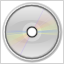
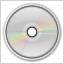
New iconds
git-svn-id: https://svn.musicpd.org/gmpc/trunk@4005 09075e82-0dd4-0310-85a5-a0d7c8717e4f

diff --git a/src/tray-icon.c b/src/tray-icon.c
@@ -25,7 +25,6 @@ void tray_init();
 
 GladeXML *tray_pref_xml = NULL;
 
-//int pl3_hidden = FALSE;
 
 extern GladeXML *pl3_xml;
 
@@ -489,7 +488,7 @@ void tray_icon_song_change()
 		ret = cover_art_fetch_image_path(mpd_playlist_get_current_song(connection), &path);
 		if(ret == COVER_ART_OK_LOCAL)
 		{
-			cover_pb = gdk_pixbuf_new_from_file_at_size(path, 80,80, NULL);
+			cover_pb = gdk_pixbuf_new_from_file_at_size(path, 64,64, NULL);
 		}
 		else if (ret == COVER_ART_NOT_FETCHED)
 		{
@@ -498,6 +497,17 @@ void tray_icon_song_change()
 					(CoverArtCallback)tray_cover_art_fetched,NULL);
 		}
 		if(path)g_free(path);
+	}
+}
+
+void tray_icon_connection_changed(MpdObj *mi, int connect)
+{
+	if(connect){
+		if(tray_icon)gtk_image_set_from_stock(GTK_IMAGE(logo), "gmpc-tray", -1);
+		tray_icon_state_change();
+	}
+	else{
+		if(tray_icon)gtk_image_set_from_stock(GTK_IMAGE(logo), "gmpc-tray-disconnected", -1);
 	}
 }
 
@@ -714,7 +724,7 @@ int create_tray_icon()
 	/* set up tray icon */
 	tray_icon = egg_tray_icon_new(_("Gnome Music Player Client"));
 	event = gtk_event_box_new();
-	logo = 	gtk_image_new_from_stock("gmpc-tray",-1);//gtk_event_box_new();
+	logo = 	gtk_image_new_from_stock("gmpc-tray-disconnected",-1);//gtk_event_box_new();
 	gtk_container_add(GTK_CONTAINER(tray_icon), event);
 	gtk_container_add(GTK_CONTAINER(event), logo);
 	gtk_widget_show_all(GTK_WIDGET(tray_icon));
@@ -747,7 +757,7 @@ void tray_cover_art_fetched(mpd_Song *song)
 				ret = cover_art_fetch_image_path(mpd_playlist_get_current_song(connection), &path);
 				if(ret == COVER_ART_OK_LOCAL)
 				{
-					cover_pb = gdk_pixbuf_new_from_file_at_size(path, 80,80, NULL);
+					cover_pb = gdk_pixbuf_new_from_file_at_size(path, 64,64, NULL);
 				}
 				if(path)g_free(path);
 

diff --git a/src/main.c b/src/main.c
@@ -478,6 +478,17 @@ void init_stock_icons ()
 	set = gtk_icon_set_new_from_pixbuf (pb);
 	gtk_icon_factory_add (factory, "gmpc-tray-pause", set);
 	g_object_unref (G_OBJECT (pb));
+
+
+	path = gmpc_get_full_image_path("gmpc-tray-disconnected.png");
+	pb = gdk_pixbuf_new_from_file (path, NULL);
+	g_free(path);
+	set = gtk_icon_set_new_from_pixbuf (pb);
+	gtk_icon_factory_add (factory, "gmpc-tray-disconnected", set);
+	g_object_unref (G_OBJECT (pb));
+
+
+	
 	
 
 
@@ -689,6 +700,7 @@ void connection_changed(MpdObj *mi, int connect, gpointer data)
 	}                                                                              	
 	debug_printf(DEBUG_INFO, "Connection changed\n");
 	playlist_connection_changed(mi, connect);
+	tray_icon_connection_changed(mi, connect);
 	for(i=0; i< num_plugins; i++)
 	{
 		debug_printf(DEBUG_INFO, "Connection changed plugin: %s\n", plugins[i]->name);
@@ -697,7 +709,7 @@ void connection_changed(MpdObj *mi, int connect, gpointer data)
 			plugins[i]->mpd_connection_changed(mi,connect,NULL);
 		}
 	}
-
+	mpd_status_update(mi);
 }
 
 void show_error_message(gchar *string)

diff --git a/src/playlist3-artist-browser.c b/src/playlist3-artist-browser.c
@@ -222,7 +222,7 @@ void pl3_artist_browser_cover_art_fetched(mpd_Song *song, GtkTreeRowReference *r
 				ret = cover_art_fetch_image_path(song, &coverpath); 
 				if(ret == COVER_ART_OK_LOCAL)
 				{
-					int size = cfg_get_single_value_as_int_with_default(config, "cover-art", "browser-size",80);
+					int size = cfg_get_single_value_as_int_with_default(config, "cover-art", "browser-size",64);
 					GdkPixbuf *pb = gdk_pixbuf_new_from_file_at_size(coverpath,size,size,NULL);
 					gtk_list_store_set(pl3_ab_store,&iter, PL3_AB_ICON, pb, -1);
 					g_object_unref(pb);
@@ -303,7 +303,7 @@ long unsigned pl3_artist_browser_view_folder(GtkTreeIter *iter_cat)
 			ret = cover_art_fetch_image_path_aa(artist,data->tag, &coverpath);
 			if(ret == COVER_ART_OK_LOCAL)
 			{
-				int size = cfg_get_single_value_as_int_with_default(config, "cover-art","browser-size", 80);
+				int size = cfg_get_single_value_as_int_with_default(config, "cover-art","browser-size", 64);
 				pb = gdk_pixbuf_new_from_file_at_size(coverpath,size,size,NULL);
 			}	
 			else

diff --git a/src/cover-art-manager.c b/src/cover-art-manager.c
@@ -86,7 +86,7 @@ void cover_art_manager_row_activated(GtkTreeView *tree, GtkTreePath *path)
 					path = cfg_get_single_value_as_string(cover_index, artist, album);
 					if(path){
 						int size = cfg_get_single_value_as_int_with_default(config,
-								"cover-art", "browser-size",80);
+								"cover-art", "browser-size",64);
 						pb =gdk_pixbuf_new_from_file_at_size(path,size,size,NULL);
 					}
 					gtk_tree_store_set(GTK_TREE_STORE(gtk_tree_view_get_model(tree)), &iter, 1, pb,-1);
@@ -191,7 +191,7 @@ void cover_art_manager_load_albums(GtkTreeView *tree, GtkTreeIter *iter)
 			while(mult2 != NULL){
 				gchar *string = g_markup_printf_escaped("<i>%s</i>",mult2->key);
 				int size = cfg_get_single_value_as_int_with_default(config,
-						"cover-art", "browser-size",80);
+						"cover-art", "browser-size",64);
 
 				GdkPixbuf *pb = NULL;
 				if(mult2->value != NULL)

diff --git a/src/playlist3.c b/src/playlist3.c
@@ -1303,8 +1303,7 @@ static void playlist_player_update_image(MpdObj *mi)
 		ret = cover_art_fetch_image_path(song, &path);
 		if(ret == COVER_ART_OK_LOCAL) {
 			GdkPixbuf *pb = NULL;
-			//GtkAllocation alloc = glade_xml_get_widget(pl3_xml, "eventbox2")->allocation;
-			pb = gdk_pixbuf_new_from_file_at_size(path,64,64,NULL);//gdk_pixbuf_new_from_file_at_size(path,-1,(alloc.height > 20)?alloc.height:40,NULL);
+			pb = gdk_pixbuf_new_from_file_at_size(path,64,64,NULL);
 			gtk_image_set_from_pixbuf(GTK_IMAGE(glade_xml_get_widget(pl3_xml, "pp_cover_image")),pb);
 			gtk_widget_show(glade_xml_get_widget(pl3_xml, "pp_cover_image"));
 			g_object_unref(pb);
